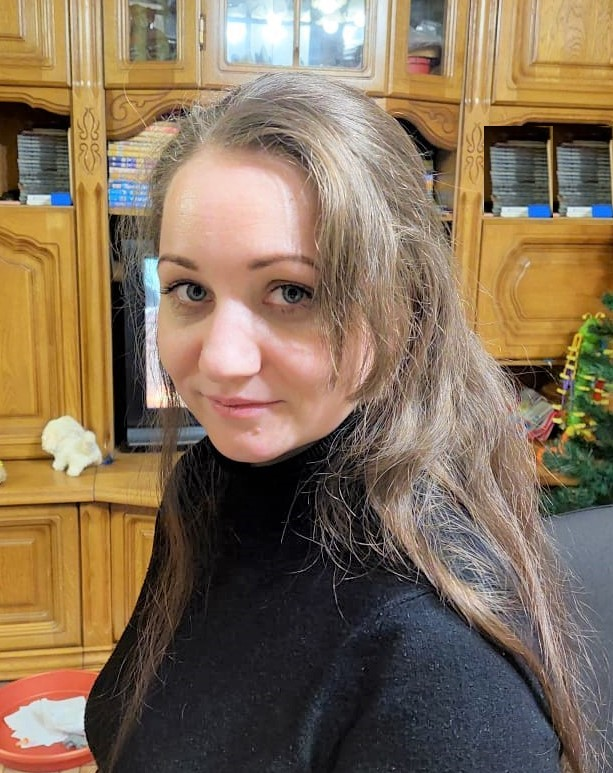
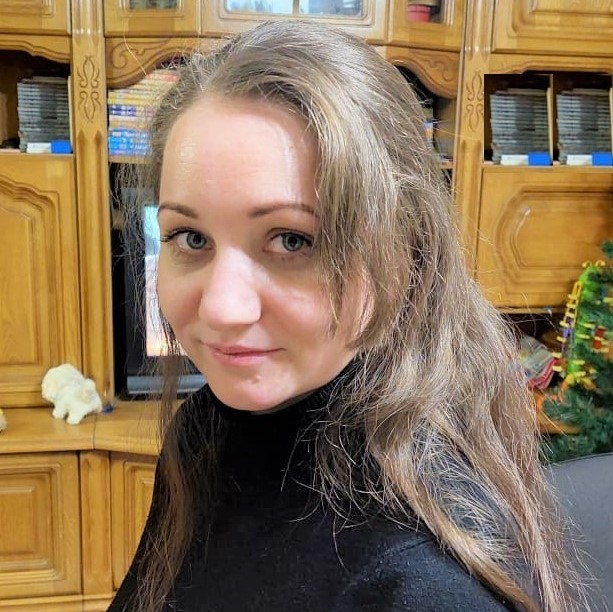
feat: change style

diff --git a/index.html b/index.html
@@ -12,7 +12,7 @@
   <title>cv</title>
 </head>
 <body>
-  <header>
+  <header class="header">
     <div class="container">
       <nav>
         <ul class="nav-list">
@@ -27,19 +27,21 @@
       </nav>
     </div>
   </header>
-  <main class="main-container">
-    <div class="container">
-      <section>
-        <img src="assets/img/photo.jpg" alt="my photo">
+  <main class="main">
+    <div class="main-container">
+      <section class="section" id="welcome">
+        <div class="color-border">
+          <img src="assets/img/photo.jpg" alt="my photo">
+        </div>
         <h1 class="section-title">Svetlana Sharygina</h1>
       </section>
       <section class="section" id="contacts">
         <h2 class="section-title">Contacts</h2>
         <ul>
-            <li>Email: fidelity-67rus@mail.ru</li>
-            <li>Telegram: @SvetlanaVl67</li>
-            <li>[GitHub](https://github.com/SvetlanaVl)</li>
-            <li>[Discord](https://discordapp.com/users/974226730535497739/)</li>
+            <li class="email">Email: fidelity-67rus@mail.ru</li>
+            <li class="telegram">Telegram: @SvetlanaVl67</li>
+            <li class="github"><a class="link" href="https://github.com/SvetlanaVl">GitHub</a></li>
+            <li class="discord"><a class="link" href="https://discordapp.com/users/974226730535497739/">Discord</a></li>
         </ul>
       </section>
       <section class="section" id="aboutMe">
@@ -68,19 +70,19 @@
         <h2 class="section-title">Courses</h2>
         <ul>
             <li>
-                <a href="https://htmlacademy.ru/study">HTML Academy</a>
+                <a class="link" href="https://htmlacademy.ru/study">HTML Academy</a>
             </li>
             <li>
-                <a href="https://www.freecodecamp.org/learn/2022/responsive-web-design/">freeCodeCamp</a>
+                <a class="link" href="https://www.freecodecamp.org/learn/2022/responsive-web-design/">freeCodeCamp</a>
             </li>
             <li>
-                <a href="https://www.udemy.com/share/101ulQ3@m3JPFzc5MzRGjjmp5I30pdQpGBJGHj86C2lLBFA0JcsZ8mwOWXisPoMenvvhC5CUhA==/">Udemy</a>
+                <a class="link" href="https://www.udemy.com/share/101ulQ3@m3JPFzc5MzRGjjmp5I30pdQpGBJGHj86C2lLBFA0JcsZ8mwOWXisPoMenvvhC5CUhA==/">Udemy</a>
             </li>
         </ul>
       </section>
       <section class="section" id="experience">
         <h2 class="section-title">Experience</h2>
-        <a href="https://github.com/SvetlanaVl/rsschool-cv">I'm still just learning</a>
+        <a class="link" href="https://github.com/SvetlanaVl/rsschool-cv">I'm still just learning</a>
       </section>
       <section class="section"id="languages">
         <h2 class="section-title">Languages</h2>
@@ -96,9 +98,9 @@
       </section>
     </div>
   </main>
-  <footer>
-    <div class="container">
-      <a href="https://github.com/SvetlanaVl">My GitHub</a>
+  <footer class="footer">
+    <div class="footer-container">
+      <a class="link" href="https://github.com/SvetlanaVl">My GitHub</a>
       <p>2022</p>
       <a href="https://rs.school/js/"><img src="assets/svg/rs_school_js.ico" alt="logo rs school"></a>
     </div>

diff --git a/style.css b/style.css
@@ -3,18 +3,23 @@
 }
 
 body {
-  display: flex;
-  flex-direction: column;
-  justify-content: space-between;
   font-family: 'Roboto', sans-serif;
   font-size: 16px;
   line-height: 1.5;
+  min-height: 100%;
   margin: 0;
   padding: 0;
-}
-.container {
+  background-color: #ecc9f7;
   max-width: 1440px;
   margin: 0 auto;
+}
+.section {
+  max-width: 1440px;
+  margin: 0 auto;
+}
+nav {
+  max-width: 1000px;
+  margin-left: 180px;
 }
 .nav-list {
   display: flex;
@@ -28,7 +33,7 @@ body {
 html {
   scroll-behavior: smooth; 
 }
-.main-container {
+.main {
   display: flex;
   flex-wrap: wrap;
 }
@@ -40,28 +45,61 @@ html {
     width: 100%;
   }
 }
-.section-item {
-  position: relative;
-  padding-left: 30px;
-}
-.section-item::before {
-  content: "";
-  position: absolute;
-  top: 8px;
-  left: 0px;
-  width: 10px;
-  height: 10px; 
-  border: 1px solid #829985;
-  border-radius: 50%;
-}
+
 .link {
   text-decoration: none;
-  color: #b026da;
+  color: #b810eb;
   transition: color 0.5s;
+  
 }
-.link:hover {
+.nav-list a:hover {
   color: #3de957;
 }
-.link:visited {
-  color: #3dcfe9;
+.nav-list .link {
+  border: 3px solid #b810eb;
+  padding: 5px;
+  border-radius: 10%;
 }
+.color-border img {
+  width: 100%;
+  height: auto;
+  display: block;
+  border-radius: 50%;
+
+}
+.color-border {
+  width: 210px;
+  margin: 50px auto 0;
+  padding: 5px;
+  background: #b810eb;
+  border-radius: 50%;
+}
+.footer-container {
+  display: flex;
+  justify-content: space-between;
+  align-items: center;
+  list-style: none;
+  padding: 0 20px;
+  line-height: 50px;
+  transition: .3s;
+}
+.footer-container img {
+  width: 80%;
+}
+.email {
+  list-style: none;
+  list-style-image: url(assets/svg/email.png);
+}
+.telegram {
+  list-style: none;
+  list-style-image: url(assets/svg/telegram.png);
+}
+.github {
+  list-style: none;
+  list-style-image: url(assets/svg/github.png);
+}
+.discord {
+  list-style: none;
+  list-style-image: url(assets/svg/discord.png);
+}
+
